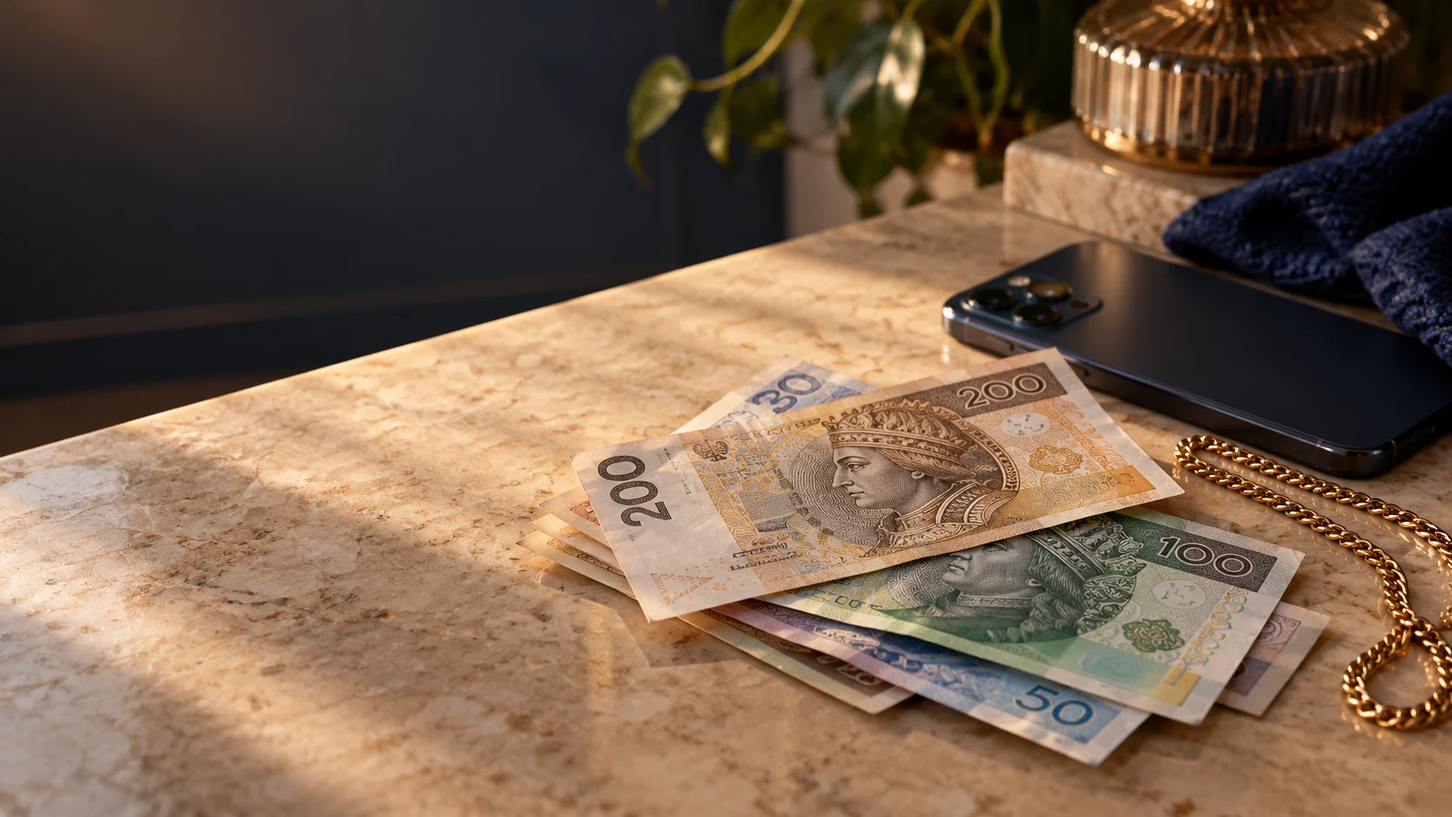
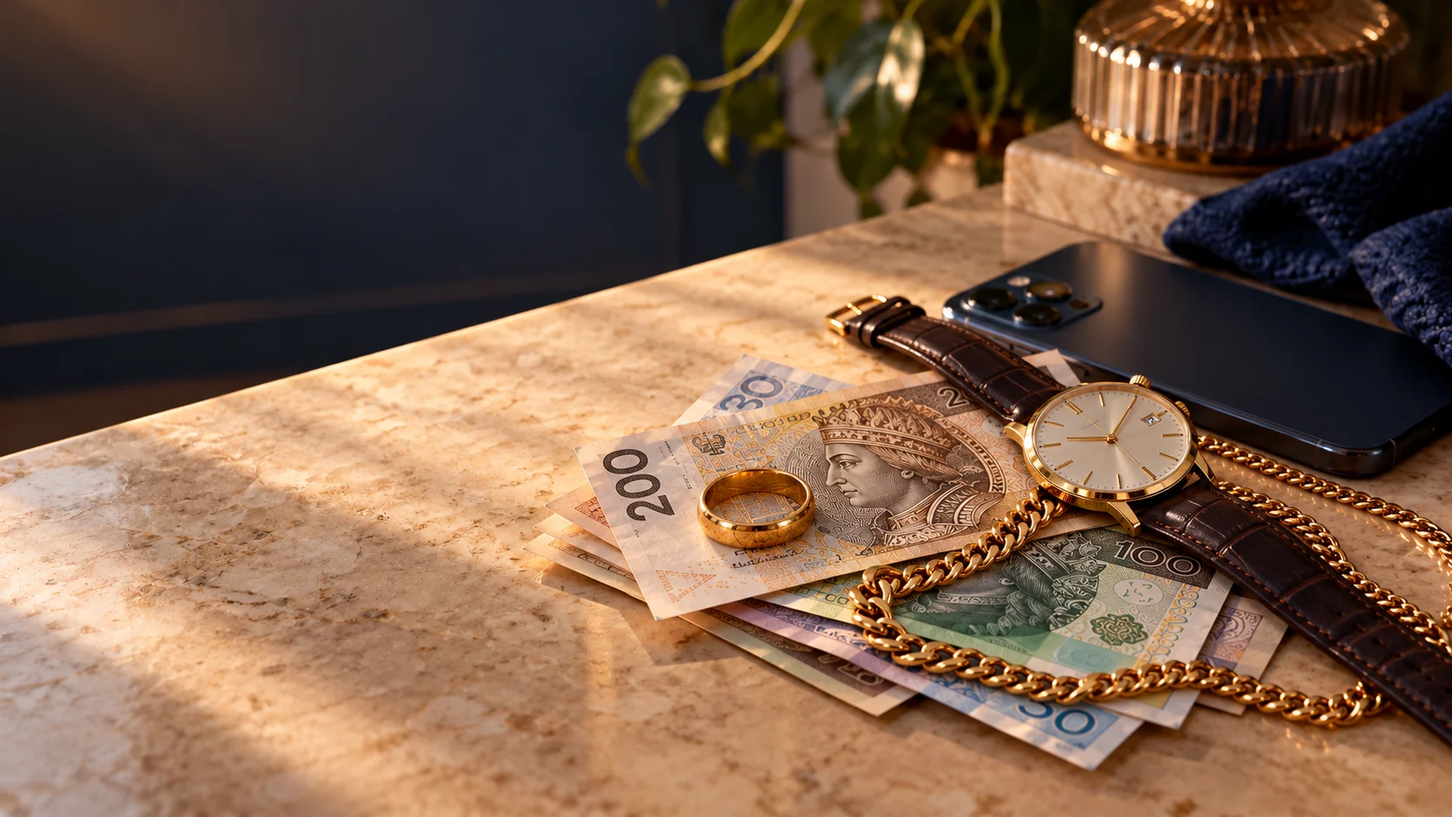
Keep local loan slogan on one line and add valuables to hero photo

diff --git a/index.html b/index.html
@@ -1,7 +1,7 @@
 <!doctype html><html lang="pl"><head><meta charset="UTF-8"><meta name="viewport" content="width=device-width,initial-scale=1"><title>Lombard Sezam — Gorzów Wielkopolski</title><link rel="stylesheet" href="style.css"></head><body>
 <div class="top">GORZÓW WIELKOPOLSKI <span>Lombard · skup złota · wycena przedmiotów</span></div>
 <header id="gora"><a class="logo brand-sezam" href="#" aria-label="Lombard Sezam — strona główna"><img src="assets/sezam-logo.png" alt="Logo Sezam" width="2033" height="313"></a><nav id="desktop-navigation" aria-label="Menu główne"><a href="#przyjmujemy">Co przyjmujemy</a><a href="#sprzedaz">Na sprzedaż</a><a href="#zloto">Cennik skupu złota</a><a href="#kalkulator">Sprawdź, ile zapłacisz</a><a href="#blog">Blog</a><a href="#kontakt">Kontakt</a></nav><details class="mobile-navigation"><summary class="menu-toggle"><svg class="menu-icon" viewBox="0 0 24 24" width="23" height="23" aria-hidden="true"><path d="M3 6h18M3 12h18M3 18h18" fill="none" stroke="currentColor" stroke-width="2" stroke-linecap="round"/></svg><span>Menu</span></summary><nav id="main-navigation" aria-label="Menu główne"><a href="#przyjmujemy">Co przyjmujemy</a><a href="#sprzedaz">Na sprzedaż</a><a href="#zloto">Cennik skupu złota</a><a href="#kalkulator">Sprawdź, ile zapłacisz</a><a href="#blog">Blog</a><a href="#kontakt">Kontakt</a></nav></details><a class="outline" href="#kalkulator">Sprawdź opłaty →</a></header>
-<main><section class="hero hero-photo-layout"><img class="hero-background" src="assets/lombard-gotowka.webp" alt="Gotówka, telefon i złota biżuteria na blacie — ilustracja poglądowa" width="1672" height="941" fetchpriority="high"><div class="hero-shade" aria-hidden="true"></div><div class="copy"><div class="eyebrow"><span></span> LOMBARD SEZAM · GORZÓW WIELKOPOLSKI</div><h1 class="hero-title">Pożyczki pod zastaw<br>na najlepszych warunkach.</h1><p class="hero-description">Złoto, telefony, laptopy i elektronarzędzia.<br> Zapytaj o wycenę i poznaj swoje możliwości.</p><p class="promo-claim"><strong>Najniższe opłaty<br> w Gorzowie i woj. lubuskim.</strong></p><div class="promo-heading"><span class="promo-first">Tylko <em>5%</em></span><span class="promo-duration">/ miesiąc · 30 dni</span><span class="promo-audience">dla nowych klientów</span></div><div class="actions"><a class="button" href="#kalkulator">Sprawdź kalkulator opłat <span>→</span></a><a class="button gold-cta" href="#zloto">Skup złota <span>→</span></a><a class="link" href="#wycena">Chcę sprzedać przedmiot →</a></div><div class="trust"><span>◇ Biżuteria i złoto</span><span>◷ Zegarki</span><span>⌘ Elektronika</span></div></div></section>
+<main><section class="hero hero-photo-layout"><img class="hero-background" src="assets/lombard-gotowka.webp" alt="Banknoty, złota obrączka, zegarek, łańcuszek i telefon na blacie — ilustracja poglądowa" width="1672" height="941" fetchpriority="high"><div class="hero-shade" aria-hidden="true"></div><div class="copy"><div class="eyebrow"><span></span> LOMBARD SEZAM · GORZÓW WIELKOPOLSKI</div><h1 class="hero-title"><span class="hero-title-main">Pożyczki pod zastaw</span><span class="hero-title-local">na najlepszych warunkach w Gorzowie</span></h1><p class="hero-description">Złoto, telefony, laptopy i elektronarzędzia.<br> Zapytaj o wycenę i poznaj swoje możliwości.</p><p class="promo-claim"><strong>Najniższe opłaty<br> w Gorzowie i woj. lubuskim.</strong></p><div class="promo-heading"><span class="promo-first">Tylko <em>5%</em></span><span class="promo-duration">/ miesiąc · 30 dni</span><span class="promo-audience">dla nowych klientów</span></div><div class="actions"><a class="button" href="#kalkulator">Sprawdź kalkulator opłat <span>→</span></a><a class="button gold-cta" href="#zloto">Skup złota <span>→</span></a><a class="link" href="#wycena">Chcę sprzedać przedmiot →</a></div><div class="trust"><span>◇ Biżuteria i złoto</span><span>◷ Zegarki</span><span>⌘ Elektronika</span></div></div></section>
 <section class="benefits" id="zasady"><div><span>01 /</span><p><b>Sprawdź skup złota</b><small>Poznaj stawki dla poszczególnych prób.</small></p></div><div><span>02 /</span><p><b>Sprzedaj z wygodą</b><small>Zacznij od wyceny swojego przedmiotu.</small></p></div><div><span>03 /</span><p><b>Spotkajmy się w Gorzowie</b><small>Porozmawiajmy i poznajmy Twoje potrzeby.</small></p></div></section>
 <section class="fee-section" id="kalkulator" aria-labelledby="fee-title"><div class="fee-intro"><div class="eyebrow">JASNE ZASADY. KONKRETNE KWOTY.</div><h2 id="fee-title">Sprawdź,<br>ile <em>zapłacisz.</em></h2><p>Wpisz kwotę i wybierz okres. Od razu zobaczysz opłatę oraz łączną kwotę do spłaty.</p><div class="fee-rates"><span><b>2,5%</b> za 15 dni</span><span><b>5%</b> za 30 dni</span></div></div><div class="fee-calculator"><label for="fee-amount">Jakiej kwoty potrzebujesz?</label><div class="fee-amount-wrap"><input id="fee-amount" type="number" min="50" max="100000" step="0.01" inputmode="decimal" value="1000" aria-describedby="fee-error"><span>zł</span></div><fieldset class="fee-periods"><legend>Na jaki okres?</legend><label><input type="radio" name="fee-period" value="15" checked><span>15 dni · 2,5%</span></label><label><input type="radio" name="fee-period" value="30"><span>30 dni · 5%</span></label></fieldset><div id="fee-results" aria-live="polite" aria-atomic="true"><div class="fee-cost"><span>Opłata za <span id="fee-days">15</span> dni</span><output id="fee-cost">25,00 zł</output></div><div class="fee-total"><span>Łączna kwota do spłaty</span><output id="fee-total">1 025,00 zł</output></div><p>Kwota + opłata za wybrany okres.</p></div><div class="fee-presets" role="group" aria-label="Przykładowe kwoty"><button type="button" data-fee-amount="500">500 zł</button><button type="button" data-fee-amount="1000">1 000 zł</button><button type="button" data-fee-amount="2000">2 000 zł</button><button type="button" data-fee-amount="5000">5 000 zł</button><button type="button" data-fee-amount="10000">10 000 zł</button><button type="button" data-fee-amount="20000">20 000 zł</button></div><label for="fee-range" class="range-label">Wybierz kwotę suwakiem</label><input id="fee-range" type="range" min="50" max="100000" step="0.01" value="1000"><div class="range-limits"><span>50 zł</span><span>100 000 zł</span></div><p id="fee-error" role="status"></p><noscript><style>.fee-calculator #fee-results,.fee-calculator .fee-periods,.fee-calculator .fee-presets,.fee-calculator #fee-range,.fee-calculator .range-label,.fee-calculator .range-limits{display:none}</style><p class="calculator-help">Ten podgląd nie uruchamia kalkulatora. Pobierz plik i otwórz go w Chrome lub innej przeglądarce, aby przeliczać kwoty. Możesz też zadzwonić: <a href="tel:+48601775146">601 775 146</a>.</p></noscript></div></section><section class="accepted-section" id="przyjmujemy"><div class="section-head"><div><div class="eyebrow">TWÓJ PRZEDMIOT MA WARTOŚĆ</div><h2>Co <em>przyjmujemy?</em></h2></div><p>Wybierz kategorię i zapytaj o wycenę.<br>Warunki ustalimy po sprawdzeniu przedmiotu.</p></div><div class="accepted-grid"><a href="#wycena" class="accepted-card"><img class="accepted-photo" src="assets/skup-zlota-srebra.webp" alt="Złote obrączki, łańcuszek, moneta i mała sztabka oraz srebrne monety na kamiennym blacie — ilustracja poglądowa" loading="lazy" decoding="async" width="1536" height="864"><span class="category-number">01 / METALE SZLACHETNE</span><h3>Złoto i srebro</h3><p>Biżuteria, złote i srebrne monety oraz sztabki. Wycena według próby i masy.</p><span class="category-cta">Zapytaj o wycenę →</span></a><a href="#wycena" class="accepted-card"><img class="accepted-photo" src="assets/blog-elektronika.webp" alt="Telefon i laptop z ładowarką na biurku — ilustracja poglądowa" loading="lazy" decoding="async" width="1536" height="864"><span class="category-number">02 / ELEKTRONIKA</span><h3>Telefony i laptopy</h3><p>Telefony, smartfony i laptopy. Podaj model, stan urządzenia i posiadane akcesoria.</p><span class="category-cta">Zapytaj o wycenę →</span></a><a href="#wycena" class="accepted-card"><img class="accepted-photo" src="assets/elektronarzedzia.webp" alt="Wiertarko-wkrętarka i szlifierka kątowa z akumulatorem i ładowarką — ilustracja poglądowa" loading="lazy" decoding="async" width="1536" height="864"><span class="category-number">03 / ELEKTRONARZĘDZIA</span><h3>Elektronarzędzia</h3><p>Wiertarki, wkrętarki, szlifierki i młotowiertarki. Podaj model, stan i posiadane akcesoria.</p><span class="category-cta">Zapytaj o wycenę →</span></a></div></section><section class="sales-section" id="sprzedaz"><div><div class="eyebrow">ODKRYJ COŚ DLA SIEBIE</div><h2>Na <em>sprzedaż.</em></h2><p>Aktualne przedmioty, zdjęcia i ceny znajdziesz w naszych ogłoszeniach na OLX.</p></div><div class="olx-panel"><span class="olx-label">NASZE OGŁOSZENIA</span><h3>Przeglądaj ofertę Sezam</h3><p>Zobacz, co jest teraz dostępne.</p><a class="button olx-button" href="https://www.olx.pl/oferty/uzytkownik/G2XGE/" target="_blank" rel="noopener noreferrer">Zobacz oferty na OLX →</a><small>Przejdziesz do naszego profilu w serwisie OLX.</small></div></section><section class="valuation-story" aria-labelledby="story-heading"><img src="assets/wycena-bizuterii.webp" alt="Sprawdzanie złotego pierścionka przy użyciu lupy jubilerskiej — ilustracja poglądowa" loading="lazy" decoding="async" width="1536" height="864"><div class="story-copy"><div class="eyebrow">PRZYJRZYJMY SIĘ SZCZEGÓŁOM</div><h2 id="story-heading">Każdy przedmiot<br>ma swoją <em>wartość.</em></h2><p>Próba metalu, masa, stan i charakter przedmiotu — od tego zaczyna się rozmowa o wycenie. Przyjdź z biżuterią lub prześlij zdjęcia, a ustalimy kolejny krok.</p><a class="button" href="#kontakt">Porozmawiajmy o wycenie →</a></div></section><section class="gold-section" id="zloto"><div class="gold-intro"><div class="eyebrow">WARTOŚĆ ZAPISANA W ZŁOCIE</div><h2>Cennik<br>skupu <em>złota.</em></h2><p>Sprawdź próbę swojego złota i zapytaj o stawkę za gram. Wycena przedmiotu uwzględnia jego próbę oraz masę.</p><a class="link" href="#kontakt">Zapytaj o aktualną wycenę →</a></div><div class="gold-prices"><table><caption>Ceny skupu złota za 1 gram</caption><thead><tr><th scope="col">Próba złota</th><th scope="col">Cena za gram</th></tr></thead><tbody id="gold-price-rows" aria-busy="false" data-has-prices="true" data-snapshot-date="24.10.2026, 01:30"><tr><th scope="row">333 <span>33,3% złota</span></th><td>117,69 zł/g</td></tr><tr><th scope="row">375 <span>37,5% złota</span></th><td>160,94 zł/g</td></tr><tr><th scope="row">500 <span>50% złota</span></th><td>214,58 zł/g</td></tr><tr><th scope="row">585 <span>58,5% złota</span></th><td>251,06 zł/g</td></tr><tr><th scope="row">750 <span>75% złota</span></th><td>321,87 zł/g</td></tr><tr><th scope="row">916 <span>91,6% złota</span></th><td>393,11 zł/g</td></tr><tr><th scope="row">960 <span>96% złota</span></th><td>412,00 zł/g</td></tr><tr><th scope="row">986 <span>98,6% złota</span></th><td>460,49 zł/g</td></tr><tr><th scope="row">999 <span>99,9% złota</span></th><td>428,73 zł/g</td></tr></tbody></table><p class="price-note" id="gold-price-status" role="status">Ostatnio pobrany cennik · notowania: 24.10.2026, 01:30 (Polska). Aktualność cen potwierdzisz telefonicznie.</p><button class="price-refresh" id="refresh-gold-prices" type="button">Odśwież cennik</button><noscript><p>Włącz JavaScript, aby odświeżać ceny automatycznie. Powyżej znajduje się ostatnio pobrany cennik z datą notowań.</p></noscript></div></section>
 <section class="valuation" id="wycena"><div><div class="eyebrow">ZRÓB MIEJSCE NA NOWE</div><h2>W Twojej szufladzie<br>kryje się <em>wartość.</em></h2><p>Opisz swój przedmiot. To pierwszy krok do wyceny.</p></div><form><label>Co chcesz wycenić?<input name="item" placeholder="Np. złoty pierścionek, telefon, zegarek" required></label><label>Adres e-mail<input type="email" placeholder="twoj@email.pl" required></label><button class="button">Przygotuj zapytanie →</button><p id="result" role="status">Wersja demonstracyjna — formularz nie wysyła danych.</p></form></section><section id="blog" class="blog-section"><div class="section-head"><div><div class="eyebrow">WIEDZA, KTÓRA SIĘ PRZYDAJE</div><h2>Blog <em>Lombardu Sezam.</em></h2></div><p>Praktycznie o złocie, przedmiotach<br>i świadomych decyzjach.</p></div><div class="blog-grid"><article class="blog-card"><img class="blog-photo" src="assets/blog-przedmioty.webp" alt="Telefon, laptop i biżuteria na jasnym blacie — ilustracja poglądowa" loading="lazy" decoding="async" width="1536" height="864"><div class="blog-meta"><span>PORADNIK</span><span>01 / PORADNIK</span></div><h3>Co przyjmujemy do lombardu? Zacznij od sprawdzenia swoich rzeczy.</h3><p class="blog-lead">Złoto, biżuteria, telefony i laptopy — dowiedz się, jakie informacje przygotować przed wyceną.</p><details><summary>Czytaj artykuł <span aria-hidden="true">+</span></summary><div class="blog-body"><p>W domu często przechowujemy rzeczy, których już nie używamy: drugi telefon, starszy laptop czy biżuterię leżącą od lat w szkatułce. Zanim zdecydujesz się na sprzedaż lub zapytasz o warunki transakcji lombardowej, warto ustalić, co dokładnie posiadasz i w jakim jest stanie.</p><h4>Złoto, srebro i biżuteria</h4><p>Do Lombardu Sezam możesz zgłosić złotą lub srebrną biżuterię, monety i sztabki. Przygotuj informację o próbie, jeśli ją znasz, oraz orientacyjnej masie. Próba oznacza zawartość metalu szlachetnego w stopie — oznaczenie 585 wskazuje na 58,5% złota. Nie wiesz, jaki masz przedmiot? Nie musisz samodzielnie rozpoznawać metalu; zapytaj o jego sprawdzenie.</p><h4>Telefony i laptopy</h4><p>W przypadku elektroniki ważne są dokładny model, sprawność oraz stan obudowy, ekranu i baterii. Warto zabrać ładowarkę, pudełko lub dokument zakupu, jeśli je posiadasz. Uczciwie opisz usterki — pęknięty ekran czy problem z ładowaniem wpływają na możliwość przyjęcia i wycenę urządzenia.</p><h4>Co wysłać przed wizytą?</h4><p>Przez WhatsApp prześlij nazwę przedmiotu, kilka wyraźnych zdjęć i krótki opis jego stanu. Nie przesyłaj zdjęć dokumentów tożsamości ani haseł do urządzeń. Wstępna rozmowa pomoże ustalić, czy dany przedmiot mieści się w naszej ofercie; ostateczna decyzja i wycena wymagają jego sprawdzenia.</p><p>Przed transakcją upewnij się, że rozumiesz jej rodzaj, warunki i ewentualne koszty. Sprzedaż przedmiotu i transakcja z możliwością jego późniejszego odzyskania mają inne zasady — zapytaj o nie przed podpisaniem dokumentów.</p><a class="link" href="#kontakt">Masz pytanie? Skontaktuj się z nami →</a></div></details></article><article class="blog-card"><img class="blog-photo" src="assets/zlota-bizuteria.webp" alt="Złote obrączki i łańcuszek — ilustracja poglądowa" loading="lazy" decoding="async" width="1536" height="864"><div class="blog-meta"><span>ZŁOTO</span><span>02 / PORADNIK</span></div><h3>Ile warte jest Twoje złoto? Próba, masa i cena za gram.</h3><p class="blog-lead">Jak czytać cennik skupu i dlaczego cena całego pierścionka nie wynika wyłącznie z jego wagi?</p><details><summary>Czytaj artykuł <span aria-hidden="true">+</span></summary><div class="blog-body"><p>Dwa podobne pierścionki mogą mieć różną wartość skupu. Liczy się nie tylko wygląd czy masa, ale także zawartość złota i to, które elementy przedmiotu są wykonane z metalu szlachetnego. Dlatego domowe obliczenie warto traktować jako punkt wyjścia do rozmowy.</p><h4>Co oznacza próba?</h4><p>Próba określa udział czystego złota w tysiącu części stopu. Złoto próby 333 zawiera 33,3% złota, próby 585 — 58,5%, a próby 750 — 75%. Pozostałe metale wpływają między innymi na kolor i twardość biżuterii. Sam kolor nie wystarczy jednak do ustalenia próby.</p><h4>Jak korzystać z cennika?</h4><p>W cenniku skupu na naszej stronie znajdziesz cenę za gram konkretnej próby. Jeżeli korzystasz ze stawki podanej dla złota 585, nie mnożysz jej ponownie przez 0,585 — zawartość złota jest już uwzględniona w tej stawce. Orientacyjna kwota to cena za gram danej próby pomnożona przez masę złotych elementów zakwalifikowanych do wyceny.</p><h4>Dlaczego waga całego przedmiotu może nie wystarczyć?</h4><p>Kamienie, sprężyny, zapięcia i inne dodatki nie zawsze są wykonane ze złota. Waga całego zegarka czy pierścionka z dużym kamieniem nie musi odpowiadać masie złota przyjmowanej do rozliczenia. Również stan i charakter przedmiotu mogą wymagać indywidualnej oceny.</p><h4>Sprawdź aktualną stawkę</h4><p>Ceny złota zmieniają się. Korzystaj z aktualnego cennika, a jeśli nie jest dostępny, zapytaj o cenę bezpośrednio. Kwota, za którą kiedyś kupiono biżuterię w salonie, obejmuje także wykonanie, wzornictwo i marżę sprzedaży — nie jest automatycznie jej obecną wartością skupu.</p><a class="link" href="#kontakt">Masz pytanie? Skontaktuj się z nami →</a></div></details></article><article class="blog-card"><img class="blog-photo" src="assets/blog-elektronika.webp" alt="Laptop i telefon przygotowane do wyceny — ilustracja poglądowa" loading="lazy" decoding="async" width="1536" height="864"><div class="blog-meta"><span>ELEKTRONIKA</span><span>03 / PORADNIK</span></div><h3>Telefon lub laptop do sprzedaży — co zrobić przed wizytą?</h3><p class="blog-lead">Prosta lista przygotowań: model, akcesoria, kopia danych i bezpieczne wylogowanie.</p><details><summary>Czytaj artykuł <span aria-hidden="true">+</span></summary><div class="blog-body"><p>Dobrze przygotowany telefon lub laptop łatwiej sprawdzić i opisać. Nie chodzi o ukrywanie śladów używania, lecz o zebranie informacji i zabezpieczenie prywatnych danych. Zacznij od sprawdzenia, czy urządzenie się uruchamia i czy działa ładowanie.</p><h4>Zapisz model i stan urządzenia</h4><p>Podaj pełną nazwę modelu, pojemność pamięci i najważniejsze parametry. W laptopie przydadzą się informacje o procesorze, pamięci RAM i dysku. Opisz rysy, pęknięcia, problemy z baterią, naprawy oraz wymienione części. Zrób zdjęcia obudowy i ekranu, ale nie pokazuj prywatnych powiadomień ani danych logowania.</p><h4>Zbierz akcesoria</h4><p>Ładowarka i przewód pozwalają wygodnie sprawdzić sprzęt. Jeśli masz pudełko lub dokument zakupu, zabierz je do wglądu. Nie zakładaj, że samo opakowanie podniesie wycenę o określoną kwotę — znaczenie ma przede wszystkim konkretny model i jego stan.</p><h4>Zabezpiecz swoje dane</h4><p>Przed przekazaniem urządzenia wykonaj kopię zdjęć, plików i ważnych kontaktów. Przenieś aplikacje uwierzytelniające i sprawdź, czy masz dostęp do kont na innym urządzeniu. Po ustaleniu transakcji wyloguj własne konta oraz wyłącz przypisane do nich blokady aktywacji zgodnie z instrukcją producenta. Następnie usuń dane i przywróć ustawienia fabryczne. Nie usuwaj kopii zapasowej, dopóki nie upewnisz się, że działa.</p><h4>Nie udostępniaj haseł</h4><p>Hasła, kody odzyskiwania i kody z SMS-ów zachowaj dla siebie. Wyjmij kartę SIM i kartę pamięci; sprawdź też sposób usunięcia lub przeniesienia eSIM u operatora. Jeśli nie wiesz, jak bezpiecznie przygotować urządzenie, ustal kolejne kroki przed jego pozostawieniem.</p><a class="link" href="#kontakt">Masz pytanie? Skontaktuj się z nami →</a></div></details></article><article class="blog-card"><img class="blog-photo" src="assets/blog-swieta.webp" alt="Elegancko zapakowane prezenty i świąteczne dekoracje — ilustracja poglądowa" loading="lazy" decoding="async" width="1536" height="864"><div class="blog-meta"><span>ŚWIĘTA 2027</span><span>04 / PORADNIK</span></div><h3>Święta Bożego Narodzenia 2027 — zaplanuj wydatki i daj rzeczom drugie życie.</h3><p class="blog-lead">Spokojny plan zakupów, przegląd szuflad i prezenty z drugiej ręki bez zakupowego pośpiechu.</p><details><summary>Czytaj artykuł <span aria-hidden="true">+</span></summary><div class="blog-body"><p>Święta Bożego Narodzenia w 2027 roku można przygotować bez odkładania wszystkich zakupów na ostatni moment. Wcześniejszy plan pomaga oddzielić rzeczy potrzebne od spontanicznych wydatków. To również dobry powód, by przejrzeć przedmioty, które od dawna zajmują miejsce w domu.</p><h4>Zacznij od budżetu</h4><p>Spisz planowane koszty prezentów, żywności, podróży i dekoracji. Ustal łączny limit oraz kwotę na każdą kategorię. Zostaw niewielki zapas na nieprzewidziane wydatki. Gdy plan zaczyna przekraczać możliwości, zmniejsz listę zakupów — presja świąteczna nie jest dobrym powodem do przyjmowania zobowiązań, których nie będzie łatwo spłacić.</p><h4>Przejrzyj to, czego już nie używasz</h4><p>Stary telefon, nieużywany laptop lub biżuteria mogą otrzymać nowe życie. Przygotuj zdjęcia i opis, a następnie zapytaj o wycenę. Nie podejmuj decyzji wyłącznie pod wpływem pierwszej zaproponowanej kwoty. Zastanów się również nad wartością sentymentalną — pamiątki rodzinnej nie zawsze da się później zastąpić.</p><h4>Prezent z drugiej ręki? Sprawdź szczegóły</h4><p>Przy zakupie używanego sprzętu lub biżuterii obejrzyj stan przedmiotu, sprawdź opis i zapytaj o warunki sprzedaży. W elektronice zweryfikuj działanie i komplet akcesoriów; w biżuterii rozmiar, próbę i ewentualne uszkodzenia. Aktualne ogłoszenia Lombardu Sezam znajdziesz przez przycisk OLX w sekcji „Na sprzedaż”.</p><h4>Nie zostawiaj wizyty na ostatni dzień</h4><p>Przed świętami potwierdź godziny otwarcia oraz dostępność interesującego Cię przedmiotu. Jeśli pytasz o złoto, sprawdź aktualną cenę — stawki z wcześniejszych tygodni mogą się zmienić. Napisz na WhatsApp, aby ustalić szczegóły przed przyjazdem.</p><a class="link" href="#kontakt">Masz pytanie? Skontaktuj się z nami →</a></div></details></article></div></section><section class="contact-section" id="kontakt"><div><div class="eyebrow">POROZMAWIAJMY</div><h2>Masz pytanie?<br>Napisz na <em>WhatsApp.</em></h2><p>Zapytaj o skup złota lub wycenę przedmiotu. Do wiadomości możesz dołączyć zdjęcia.</p><address class="contact-address"><strong>Lombard Sezam</strong><span>ul. Pocztowa 11</span><span>66-400 Gorzów Wielkopolski</span><a class="button directions-button" href="https://www.google.com/maps/dir/?api=1&amp;destination=Pocztowa+11%2C+66-400+Gorz%C3%B3w+Wielkopolski" target="_blank" rel="noopener noreferrer">Wyznacz trasę →</a></address></div><div class="whatsapp-card"><svg viewBox="0 0 32 32" width="42" height="42" aria-hidden="true"><path d="M26 6a13 13 0 0 0-21 15L3 29l8-2A13 13 0 0 0 26 6Z" fill="none" stroke="currentColor" stroke-width="1.7"/><path d="M11 9c-3 1-2 6 2 10s8 5 10 2l-4-3-2 2c-3-1-5-3-6-6l2-1Z" fill="currentColor"/></svg><h3>WhatsApp</h3><p>+48 601 775 146</p><a class="button call-button" href="tel:+48601775146"><svg viewBox="0 0 24 24" width="22" height="22" aria-hidden="true"><path fill="currentColor" d="M6.6 10.8a15.5 15.5 0 0 0 6.6 6.6l2.2-2.2a1 1 0 0 1 1-.2c1.1.4 2.3.6 3.6.6a1 1 0 0 1 1 1V20a1 1 0 0 1-1 1A17 17 0 0 1 3 4a1 1 0 0 1 1-1h3.5a1 1 0 0 1 1 1c0 1.3.2 2.5.6 3.6a1 1 0 0 1-.2 1z"/></svg><span>Zadzwoń</span></a><a class="button whatsapp-button" href="https://wa.me/48601775146?text=Dzie%C5%84%20dobry%2C%20chc%C4%99%20zapyta%C4%87%20o%20wycen%C4%99%20przedmiotu%20lub%20skup%20z%C5%82ota." target="_blank" rel="noopener noreferrer"><svg class="whatsapp-logo" viewBox="0 0 32 32" width="25" height="25" aria-hidden="true"><path d="M26 6a13 13 0 0 0-21 15L3 29l8-2A13 13 0 0 0 26 6Z" fill="none" stroke="currentColor" stroke-width="2"/><path d="M11 9c-3 1-2 6 2 10s8 5 10 2l-4-3-2 2c-3-1-5-3-6-6l2-1Z" fill="currentColor"/></svg><span>Napisz na WhatsApp</span></a><small>Zadzwoń lub otwórz WhatsApp i dołącz zdjęcia swojego przedmiotu.</small></div></section></main><footer><a class="logo footer-brand" href="#gora">LOMBARD SEZAM<span>GORZÓW WIELKOPOLSKI</span></a><p>ul. Pocztowa 11<br>66-400 Gorzów Wielkopolski</p><div class="footer-sites"><span>NASZE STRONY</span><nav aria-label="Nasze strony"><a href="https://sezam.com.pl" target="_blank" rel="noopener noreferrer">sezam.com.pl →</a><a href="https://srebrogorzow.pl" target="_blank" rel="noopener noreferrer">srebrogorzow.pl →</a><a href="https://zlotogorzow.pl" target="_blank" rel="noopener noreferrer">zlotogorzow.pl →</a></nav></div></footer>

diff --git a/style.css b/style.css
@@ -94,3 +94,5 @@ footer{background:var(--forest);border-top:2px solid var(--gold)}footer .logo{co
 .hero.hero-photo-layout{background:#faf6ed;color:#302b28}.hero-photo-layout .hero-shade{background:linear-gradient(90deg,#faf6edf8 0%,#faf6edf0 33%,#faf6ed88 62%,#faf6ed08 100%)}.hero-photo-layout .eyebrow{color:#742e46}.hero-photo-layout .eyebrow>span{background:#a66f4a}.hero .hero-title{color:#302b28;font-size:clamp(39px,3.7vw,55px)}.hero .copy>.hero-description{color:#655e56}.hero.hero-photo-layout .copy>.promo-claim{color:#742e46}.hero.hero-photo-layout .promo-heading{background:#fffaf3cc;border-color:#cfbba1;color:#302b28}.hero-photo-layout .promo-first em{color:#742e46}.hero-photo-layout .promo-duration{color:#6d453b}.hero-photo-layout .promo-audience{color:#65584b}.hero-photo-layout .actions>.link{color:#654333;border-color:#bda68e}.hero-photo-layout .trust{color:#6d6050}
 @media(max-width:900px){.hero.hero-photo-layout{background:#faf6ed}.hero-photo-layout .hero-shade{background:linear-gradient(180deg,transparent 0,transparent 125px,#faf6ed40 185px,#faf6eddf 255px,#faf6ed 330px)}.hero .hero-title{font-size:43px}}
 @media(max-width:450px){.hero-photo-layout .hero-shade{background:linear-gradient(180deg,transparent 0,transparent 115px,#faf6ed44 175px,#faf6ede6 255px,#faf6ed 310px)}.hero .hero-title{font-size:clamp(29px,8vw,36px);line-height:1.15;letter-spacing:-1px}.hero.hero-photo-layout .promo-heading{background:#fffdf8;border-color:#d7c6af}}
+
+.hero-title-main,.hero-title-local{display:block}.hero .hero-title-local{font:normal clamp(19px,2.05vw,29px)/1.4 Georgia,serif;letter-spacing:-.3px;white-space:nowrap;margin-top:10px}@media(max-width:900px){.hero .hero-title-local{font-size:clamp(17px,3.85vw,29px)}}@media(max-width:450px){.hero .hero-title-local{font-size:clamp(14px,3.85vw,17.3px);letter-spacing:-.2px;line-height:1.4;margin-top:9px}.hero .hero-title-main{font-size:clamp(27px,7.7vw,35px)}}
